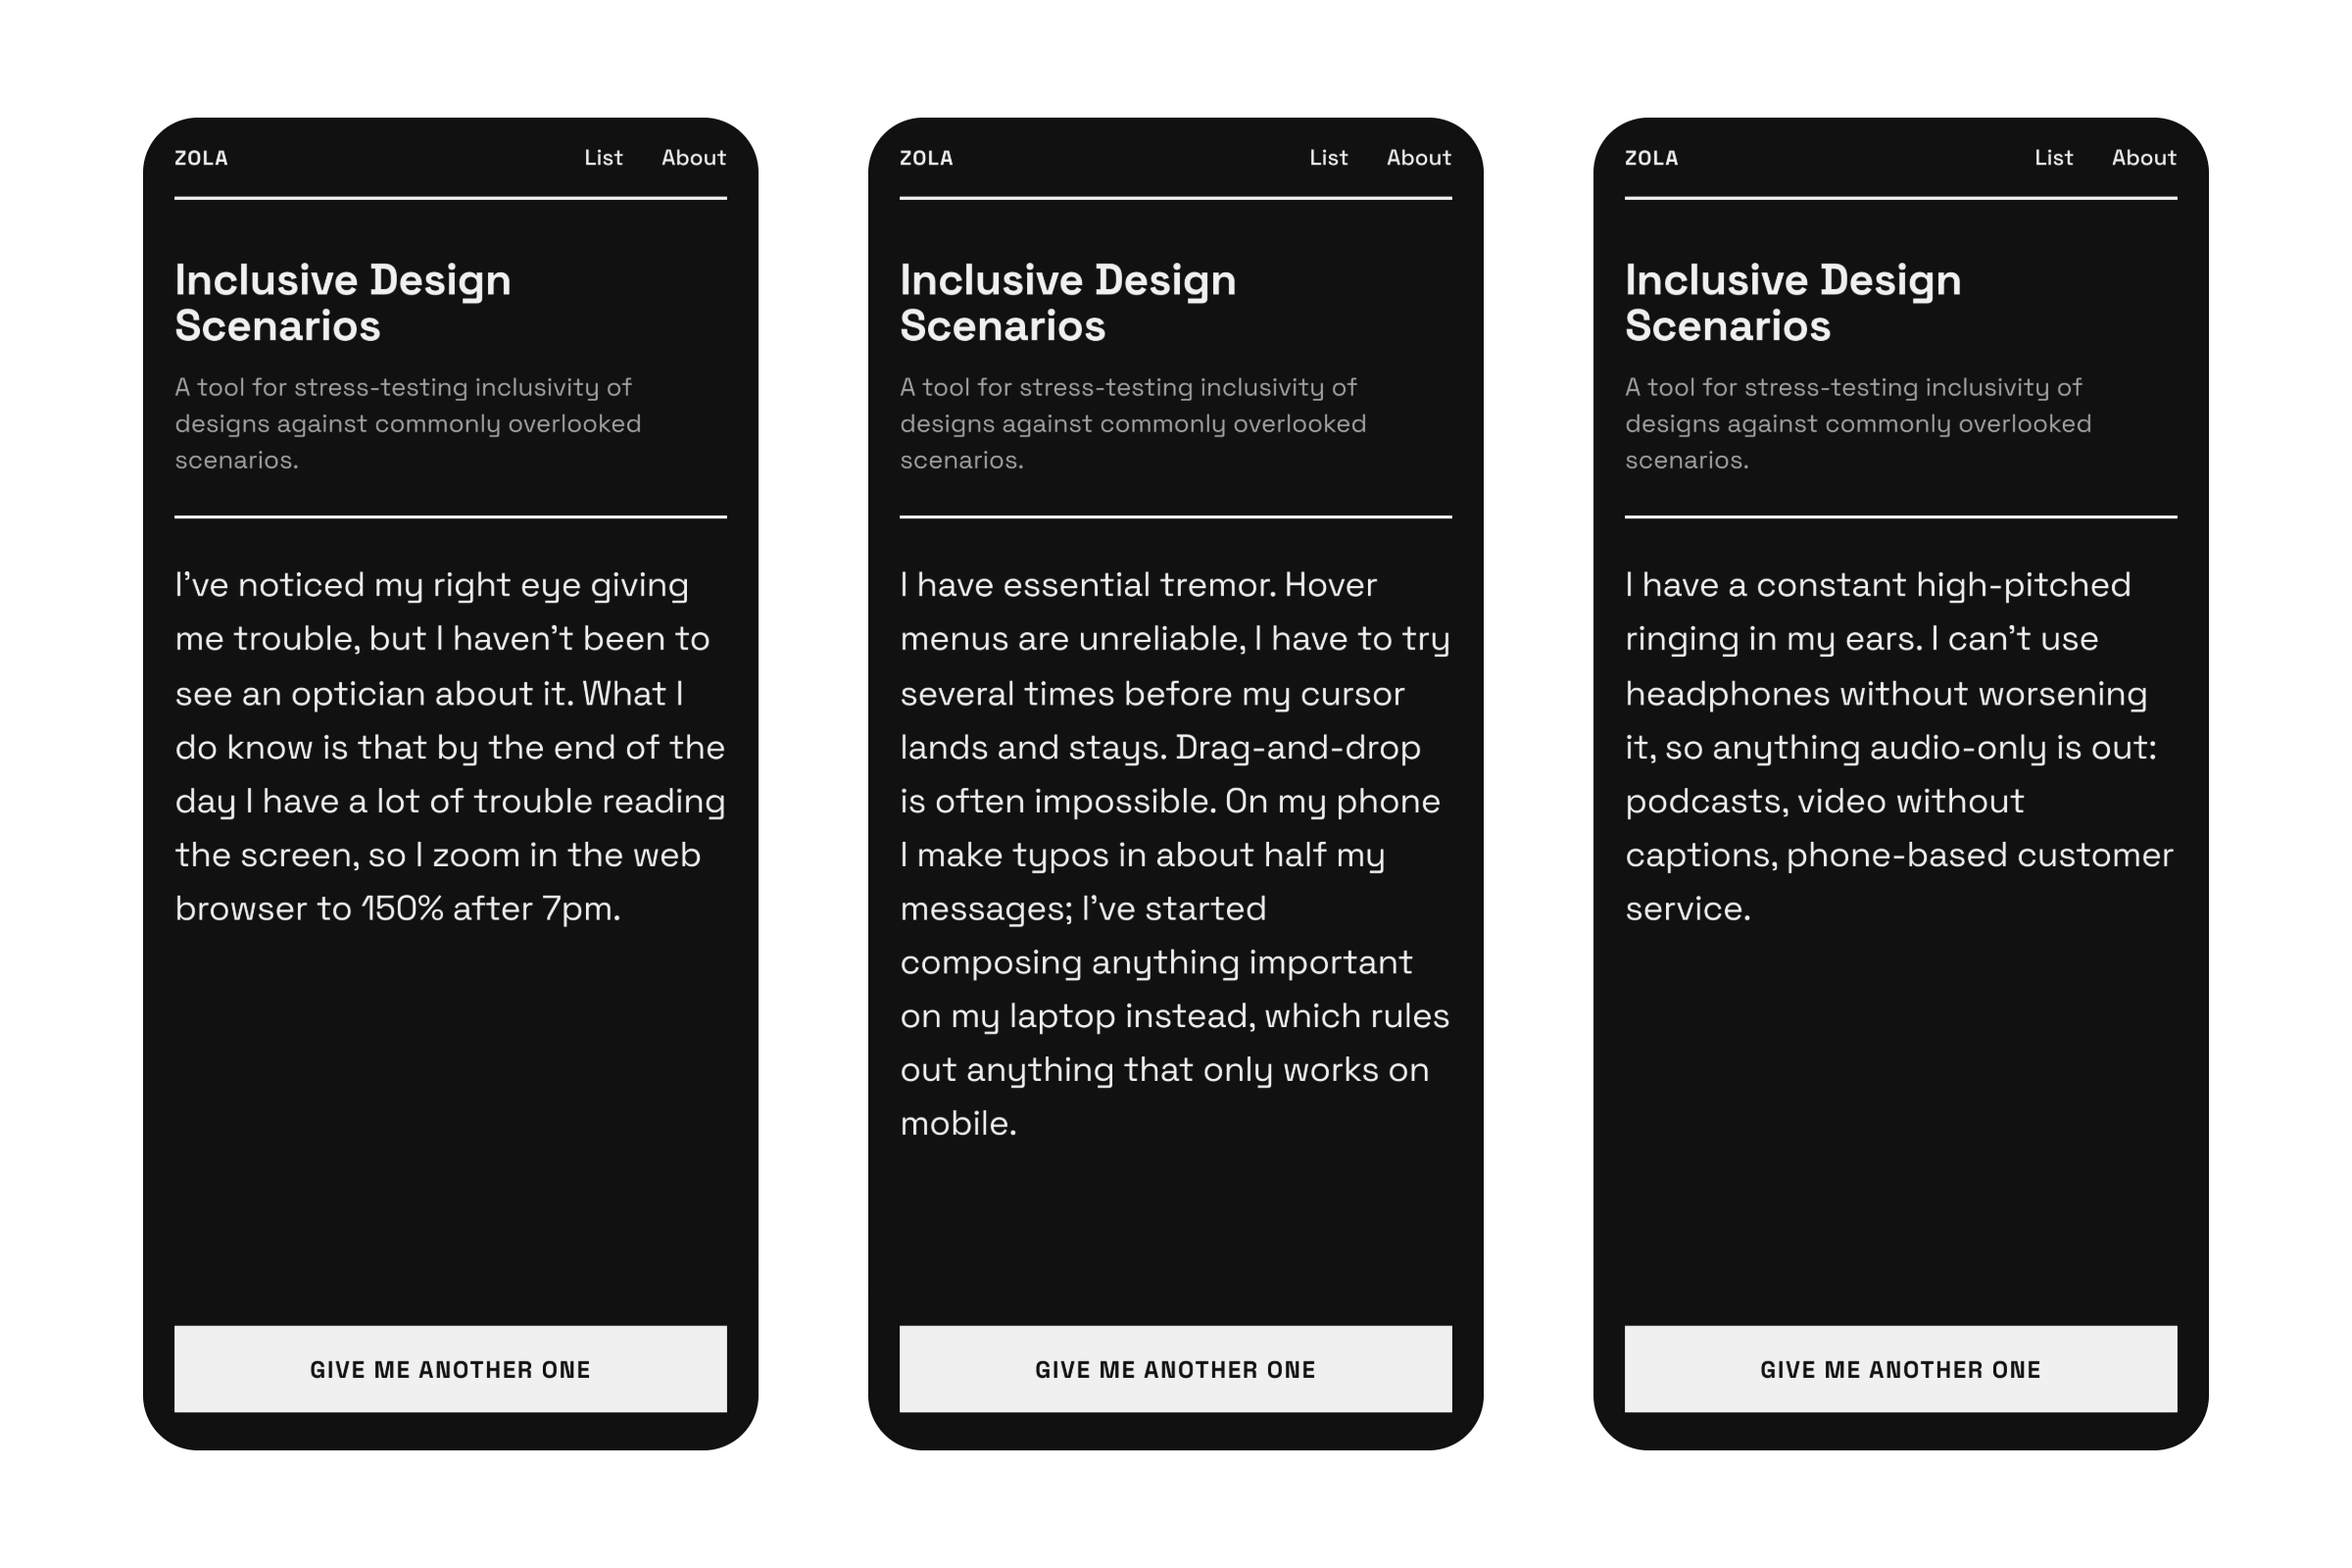
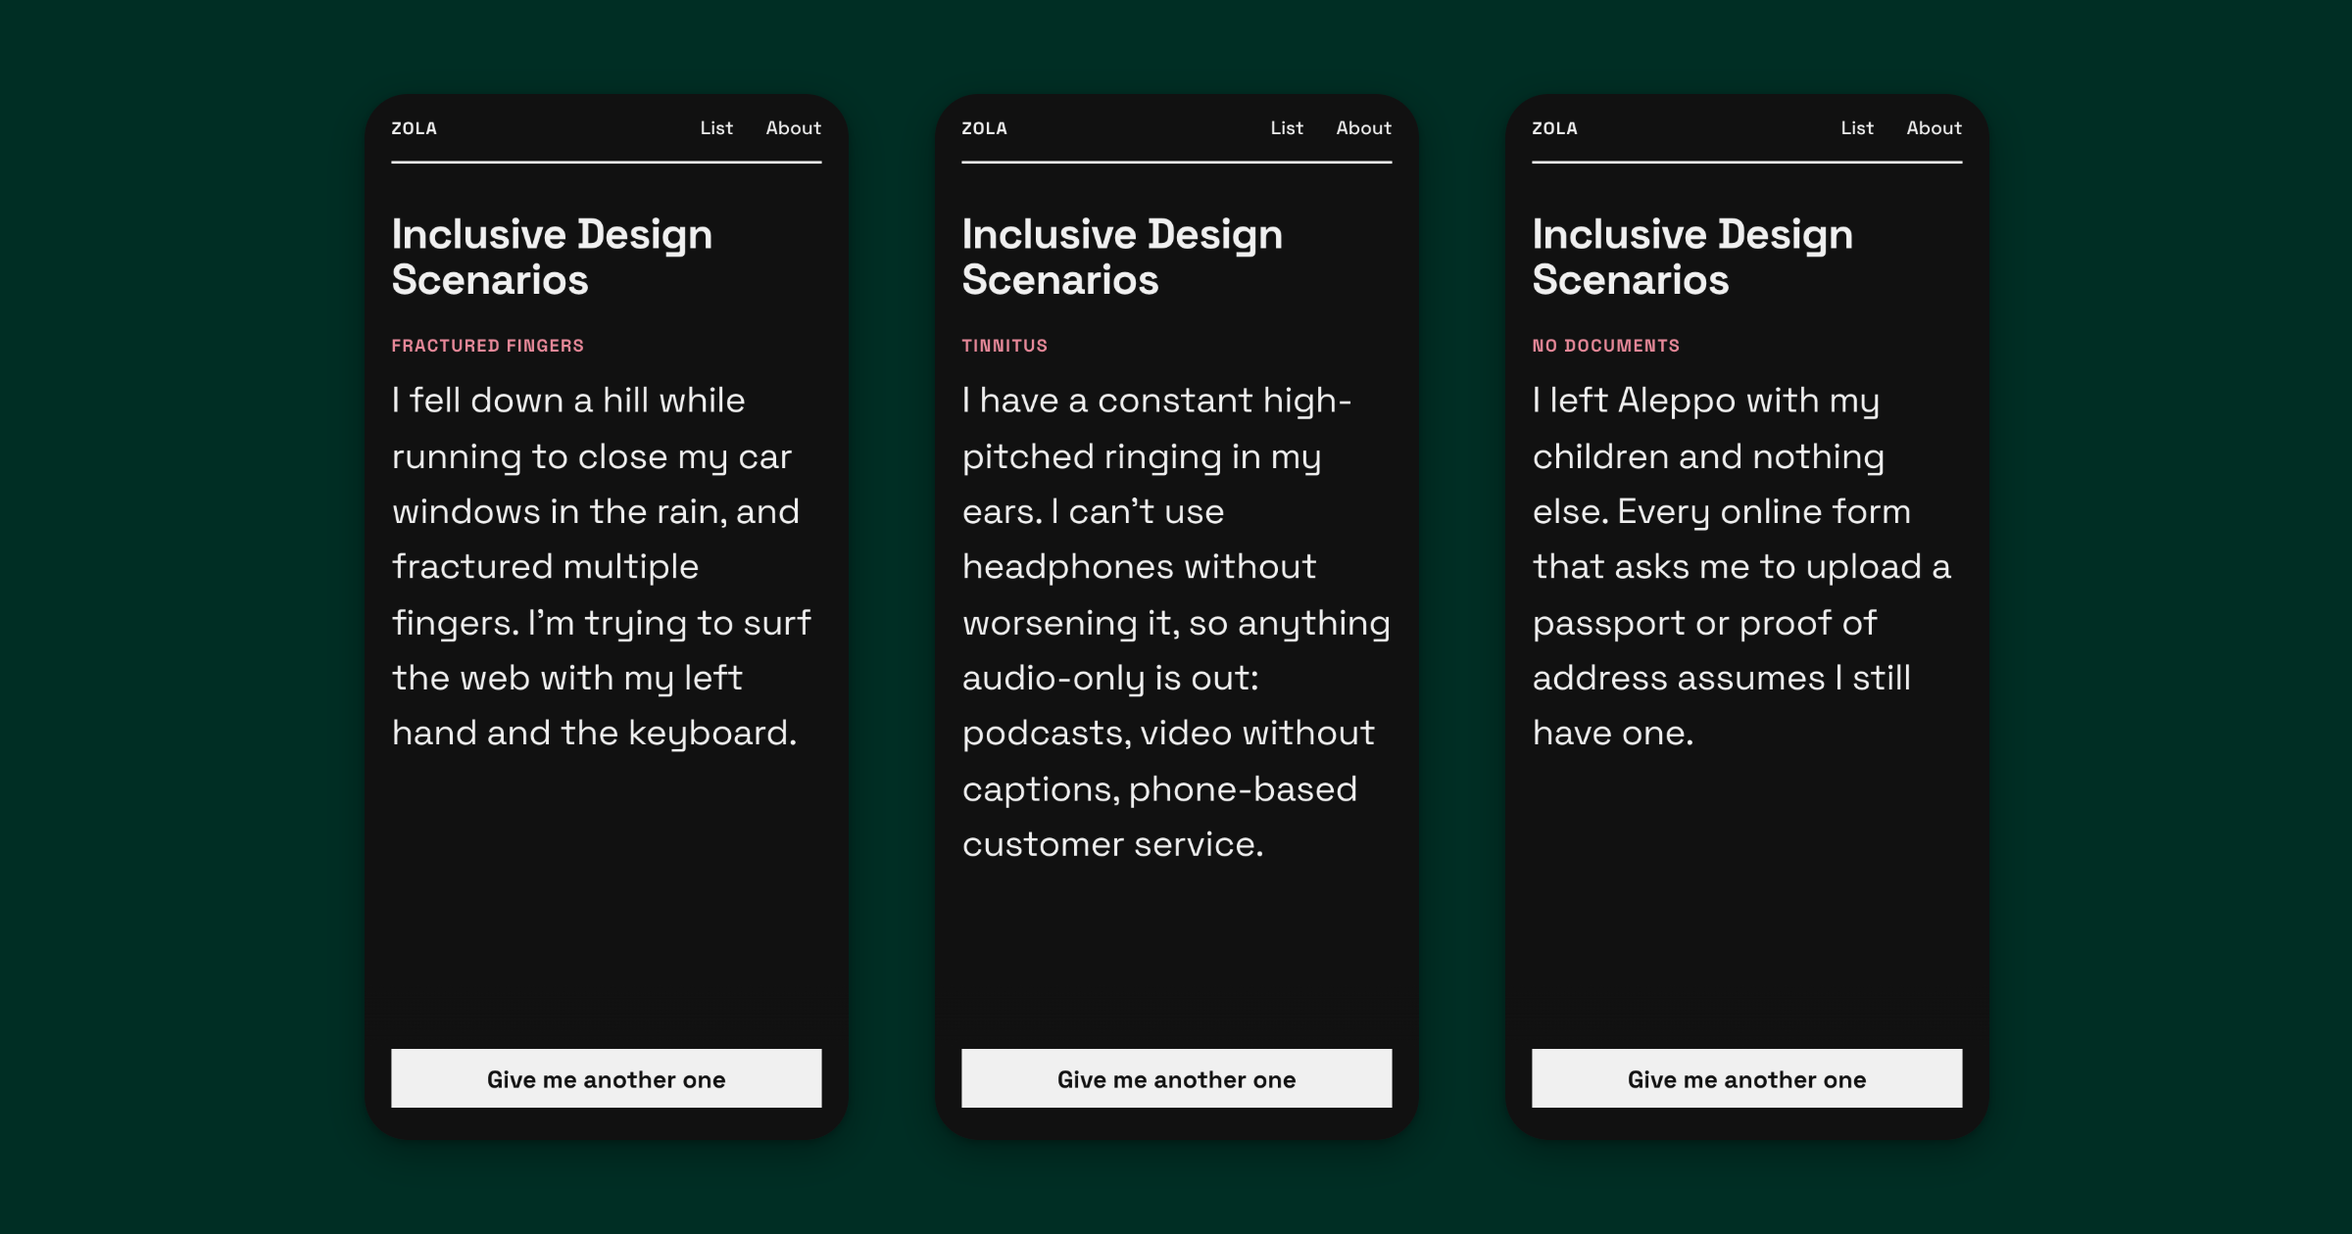
updated zola cover

diff --git a/src/data/projects.ts b/src/data/projects.ts
@@ -21,8 +21,7 @@ import zolaCover from "../assets/covers/zola.png";
 /**
  * A project's cover, which sets its card's layout:
  * - `landscape`: a 3:2 header, cropped to fill; with `video`, a looping preview over `image`
- *   as its poster (the glimmers' own covers, from their sketch folders); with `background`, a
- *   colour behind an image with transparency.
+ *   as its poster (the glimmers' own covers, from their sketch folders).
  * - `phone`: a phone screenshot beside the text, a third of the width.
  * - `square`: a square beside the text, a third of the width, stretched to the card's height
  *   and cropped from the centre.
@@ -34,7 +33,6 @@ export type Cover =
           format: "landscape";
           image: ImageMetadata;
           video?: string;
-          background?: string;
       }
     | { format: "phone" | "square"; image: ImageMetadata };
 
@@ -68,7 +66,7 @@ export const projects: Project[] = [
         description:
             "Build more accessible products. Each card describes a real person's experience and needs, which your design should accommodate.",
         url: "https://jackbush.github.io/zola/",
-        cover: { format: "landscape", image: zolaCover, background: "#BC6061" },
+        cover: { format: "landscape", image: zolaCover },
     },
     {
         name: "Risolino",

diff --git a/CLAUDE.md b/CLAUDE.md
@@ -21,7 +21,7 @@ Personal site built with Astro 6 (no JS framework). Single page (`src/pages/inde
 - The active tab is filled with the page's text colour, its label in the page colour; the inactive tab is the page with a text-colour label; the frame is the text colour. Nothing uses the other page's colours. Styles key off `data-theme`, so the pre-paint script gets it right.
 - **The switch:** clicking a tab (or the arrow keys, from the tab's centre) spreads the new page colour out from the click on a canvas, with a wobbling outline; the intro stays and changes colour as it passes, the old list fades, and the new list appears inside the spreading shape. The browser's own bars take one flat colour (`theme-color`, and Safari's tint from `html`'s background), so they follow the page along the top edge (`topEdge` in `backdrop.ts`), changing `barsLead` (in `theme.ts`) before a switch covers it; `viewport-fit=cover` lets the canvas itself reach under Safari's bars where it allows. With `prefers-reduced-motion`, or without WebGL2, the switch is instant/plain CSS.
 
-**Content** lives in `src/data/projects.ts` and `src/data/roles.ts` — edit those to update the lists. A `Role`'s dates are its first and last month (`start`, `end` as `"YYYY-MM"`); it supports an optional `listItems: string[]` rendered as a bullet list. A project's `cover` sets its card: `landscape` (3:2 header, optionally a looping `video` over the image as poster, or a `background` colour behind a transparent image), `phone` (screenshot, a third of the width) or `square` (1:1, a third of the width). Covers always keep their ratio; side covers alternate left and right, and stack above the text when the card is narrower than 32rem (a container query). Every card but a phone one is a 1px box in the text colour with a line between cover and text; its corners and the toggle's share `--radius` in `global.css`. A project with `vimeo` instead of `url` embeds the video and isn't a link. Any project can add a `link` (`label`, `url`): a bar along the bottom of the card with a chevron. All links open in a new tab. Cover files are in `src/assets/covers/` (the glimmers' are copied from their sketch folders); the build warns about a project without one. No CMS or content collections.
+**Content** lives in `src/data/projects.ts` and `src/data/roles.ts` — edit those to update the lists. A `Role`'s dates are its first and last month (`start`, `end` as `"YYYY-MM"`); it supports an optional `listItems: string[]` rendered as a bullet list. A project's `cover` sets its card: `landscape` (3:2 header, optionally a looping `video` over the image as poster), `phone` (screenshot, a third of the width) or `square` (1:1, a third of the width). Covers always keep their ratio; side covers alternate left and right, and stack above the text when the card is narrower than 32rem (a container query). Every card but a phone one is a 1px box in the text colour with a line between cover and text; its corners and the toggle's share `--radius` in `global.css`. A project with `vimeo` instead of `url` embeds the video and isn't a link. Any project can add a `link` (`label`, `url`): a bar along the bottom of the card with a chevron. All links open in a new tab. Cover files are in `src/assets/covers/` (the glimmers' are copied from their sketch folders); the build warns about a project without one. No CMS or content collections.
 
 **Theme and switch settings** all live in `src/data/theme.ts`: the theme colour (the Projects page; the Roles page is its inverse, so each page is the other's text), text opacities, and the switch's motion and outline (tuned live in the `homepage` sketch in the glimmers repo, whose pane uses the same names). Text colours are never picked: each page's text is its inverse, at full strength for headings, strong text and lines, and at a lower opacity for body text. `theme.ts` fails the build if main or minor text drops below 5.7:1.
 
